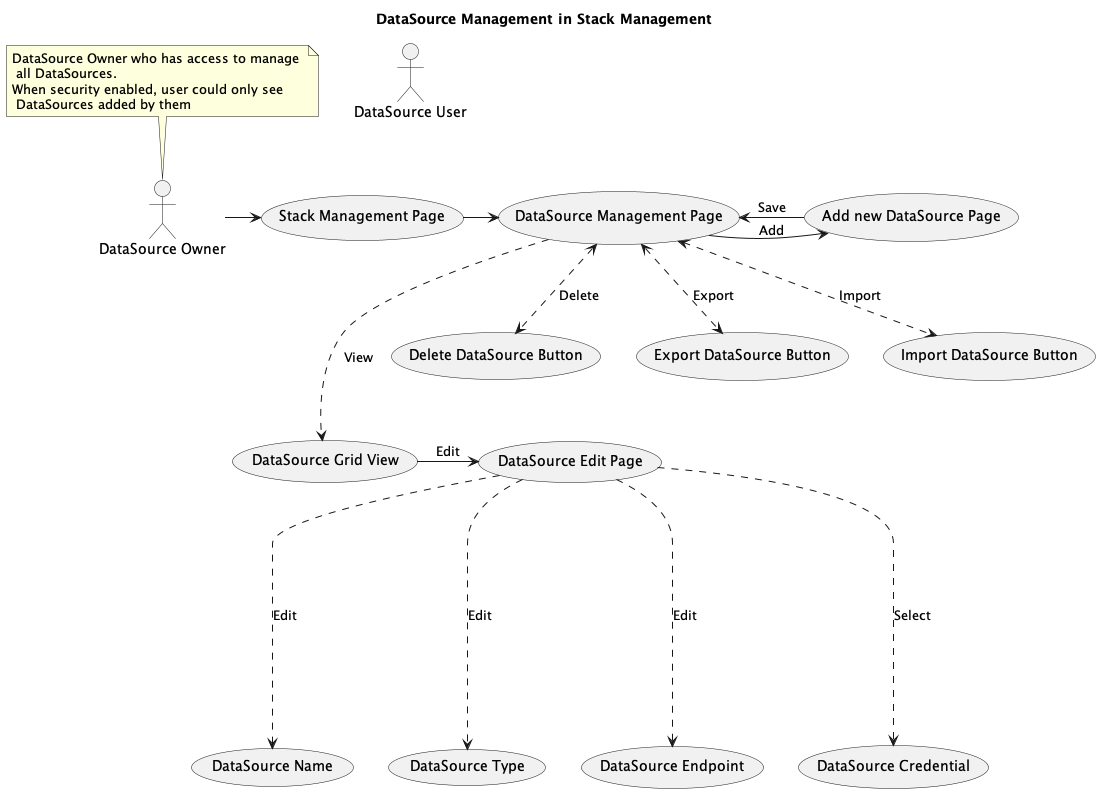
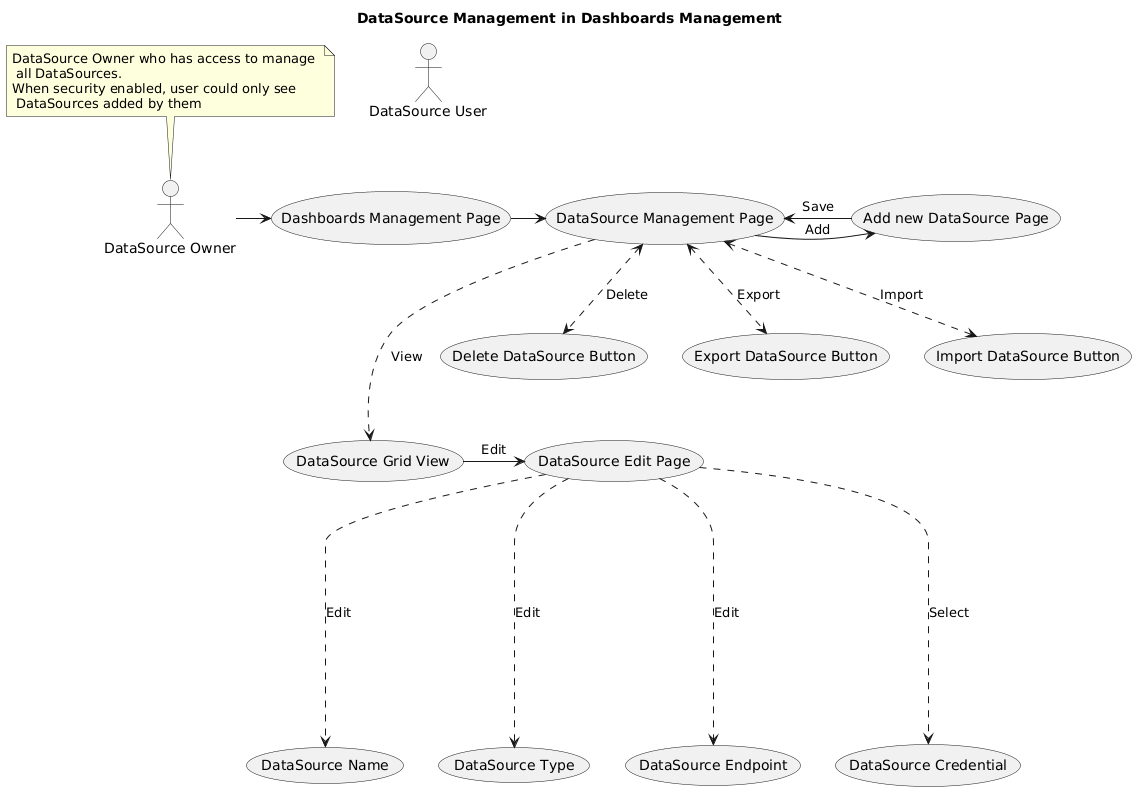
docs: address review feedback on dashboard menu paths
- Rewrite the Discover data selector sub-steps as a real nested list;
  the plain a.-d. lines rendered as a lazy continuation of the S3 bullet.
- Drop the nonexistent "☰" label from the Dashboards Management path and
  note that the Wazuh dashboard hard-disables home:useNewHomePage, so the
  classic navigation always applies.
- Align the workspace "Data sources" tab casing.
- Replace the leftover "stack management" mention in user_stories.md.
- Rename the stale Page-Stack alias in dsm_flow.puml and regenerate
  dsm_flow.png from it.

diff --git a/docs/plugins/discover/getting_started_with_discover.md b/docs/plugins/discover/getting_started_with_discover.md
@@ -82,7 +82,7 @@ Since you're starting with data sources and workspaces enabled, you'll need to s
 
 First, you'll need to add a data source that connects to your OpenSearch cluster:
 
-1. Navigate to **☰ Menu > Dashboard management > Dashboards Management**.
+1. Navigate to **Menu > Dashboard management > Dashboards Management**.
 2. Select **Data sources**.
 3. Click **Create data source**.
 4. Fill in the required information:
@@ -90,6 +90,8 @@ First, you'll need to add a data source that connects to your OpenSearch cluster
    - **Endpoint**: The URL of your OpenSearch cluster (e.g., "https://localhost:9200")
    - **Authentication**: Choose the appropriate method and provide credentials
 5. Click **Create** to save your data source.
+
+> Note: The Wazuh dashboard keeps `home:useNewHomePage` disabled and ignores the `uiSettings.overrides` entry shown above, so the classic navigation always applies and **Data sources** is reached through **Dashboards Management**.
 
 #### 2. Create a workspace
 
@@ -106,7 +108,7 @@ Now connect your data source to the workspace:
 
 1. Go to your newly created workspace.
 2. Click **Settings** in the workspace navigation.
-3. Select the **Data Sources** tab.
+3. Select the **Data sources** tab.
 4. Click **Add data source**.
 5. Select the data source you created earlier.
 6. Click **Add** to associate the data source with your workspace.
@@ -121,15 +123,15 @@ Now that your environment is set up, you can start exploring data across differe
 2. Select your workspace
 3. Navigate to **Discover** from the left sidebar.
 4. Use the data selector to choose your data source:
-   a. Click on the data selector from the sidebar
-   b. Choose "View all available data" to open the advanced selector.
-   c. Browse through available data sources, which might include:
-   - Index Patterns: Configured patterns that match multiple indices
-   - Indexes: Direct access to specific indices
-   - S3: If you've configured S3 connections
-     d. After selecting a data source, you'll be prompted to configure:
-   - Time field: Which field to use for time-based operations (if no time field is selected, the histogram visualization will not appear)
-   - Query language: Your preferred language for this data type
+   1. Click on the data selector from the sidebar.
+   2. Choose "View all available data" to open the advanced selector.
+   3. Browse through available data sources, which might include:
+      - Index Patterns: Configured patterns that match multiple indices
+      - Indexes: Direct access to specific indices
+      - S3: If you've configured S3 connections
+   4. After selecting a data source, you'll be prompted to configure:
+      - Time field: Which field to use for time-based operations (if no time field is selected, the histogram visualization will not appear)
+      - Query language: Your preferred language for this data type
 5. Write a query using PPL (Pipe Processing Language):
    ```
    source = my_logs | where status = "404"

diff --git a/docs/multi-datasource/user_stories.md b/docs/multi-datasource/user_stories.md
@@ -45,7 +45,7 @@ Data source, as a new saved object type, should have a management page, like ind
 
 We will need to
 
-- add a new data source entry in the stack management Nav app, with a data source list table
+- add a new data source entry in the Dashboards Management app, with a data source list table
 - a data source detail page, to show detailed information of a specific data source, such as URL, auth type, endpoint capabilities etc.
 
 ### Index Pattern
